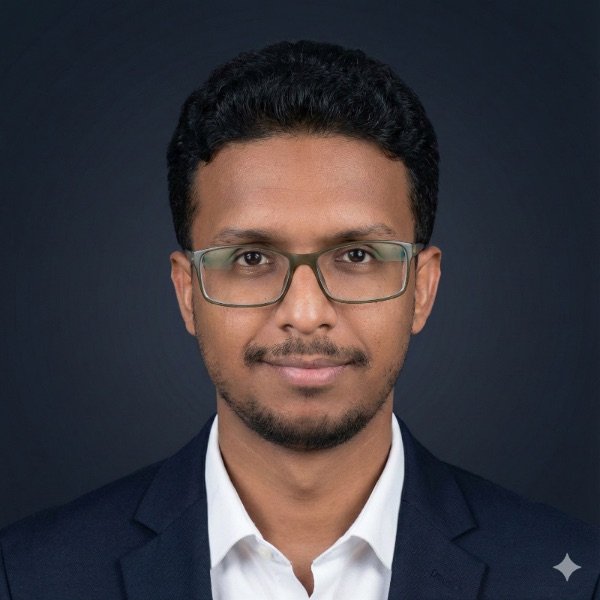
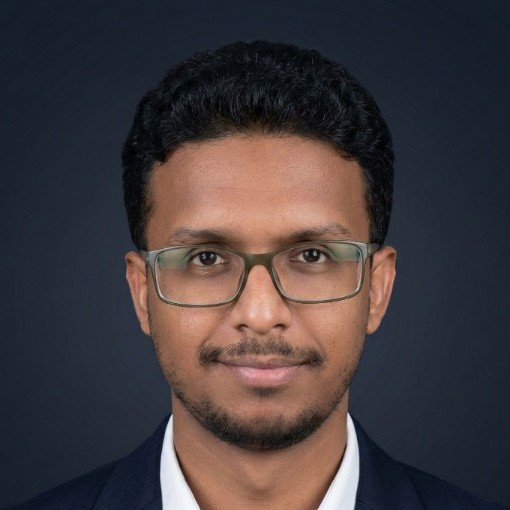
Align site with CV, fix CV quotes, crop photo watermark, update dates
- Funding: Tomorrow Leaders Undergraduate $120,000, add 2025 Departmental
  Grant ($7,000), total now "over $370,000"
- Experience: Mercy Corps and CIR 2023-2025, RA dates include 2026
- Teaching: add Fall 2026 Public Administration TA
- CV: fix closing quotes on two working papers
- Photo: crop out corner watermark
- Footer and sitemap lastmod: October 2026

Claude-Session: https://claude.ai/code/session_01TGGL3MfrcNuXE94A28KTp3

diff --git a/index.html b/index.html
@@ -1010,6 +1010,11 @@
         <div class="left">University of Western Ontario · Department of Political Science.</div>
         <div class="timeline">
           <div class="tl-row">
+            <span class="tl-year">Fall 2026</span>
+            <div class="tl-role">Public Administration <span class="org">— TA, Dr. Joseph Lyons</span></div>
+            <span class="tl-tag">Undergraduate</span>
+          </div>
+          <div class="tl-row">
             <span class="tl-year">Winter 2026</span>
             <div class="tl-role">Foundations of International Relations <span class="org">— TA, Dr. Adam Harmes</span></div>
             <span class="tl-tag">Undergraduate</span>
@@ -1052,7 +1057,7 @@
         <h2 class="serif">Grants, scholarships, and awards supporting research and graduate study.</h2>
       </div>
       <div class="block-body">
-        <div class="left">Selected funding to date — over $440,000 across grants, fellowships, and travel awards.</div>
+        <div class="left">Selected funding to date — over $370,000 across grants, fellowships, and travel awards.</div>
         <div>
           <div class="micro" style="margin-bottom:14px;">Grants &amp; Fellowships</div>
           <div class="timeline">
@@ -1069,7 +1074,7 @@
             <div class="tl-row fund">
               <span class="tl-year">2015 — 2019</span>
               <div class="tl-role">Tomorrow Leaders Undergraduate Scholarship <span class="org">— MEPI</span></div>
-              <span class="tl-tag amount">$200,000</span>
+              <span class="tl-tag amount">$120,000</span>
             </div>
             <div class="tl-row fund">
               <span class="tl-year">2023 — 2027</span>
@@ -1099,6 +1104,11 @@
               <span class="tl-year">2026</span>
               <div class="tl-role">Travel Grant <span class="org">— Western University</span></div>
               <span class="tl-tag amount">$1,000</span>
+            </div>
+            <div class="tl-row fund">
+              <span class="tl-year">2025</span>
+              <div class="tl-role">Departmental Grant <span class="org">— Western University</span></div>
+              <span class="tl-tag amount">$7,000</span>
             </div>
             <div class="tl-row fund">
               <span class="tl-year">2025</span>
@@ -1144,9 +1154,15 @@
         <div class="timeline">
 
           <div class="tl-row">
-            <span class="tl-year">2023 — 2026</span>
+            <span class="tl-year">2023 — 2025</span>
             <div class="tl-role">Crisis Analyst <span class="org">— Mercy Corps</span></div>
             <span class="tl-tag">Humanitarian</span>
+          </div>
+
+          <div class="tl-row">
+            <span class="tl-year">2023 — 2025</span>
+            <div class="tl-role">Yemen Researcher <span class="org">— Center for Information Resilience</span></div>
+            <span class="tl-tag">Research</span>
           </div>
 
           <div class="tl-row">
@@ -1156,15 +1172,9 @@
           </div>
 
           <div class="tl-row">
-            <span class="tl-year">2023 — 2024</span>
+            <span class="tl-year">2023 — 24, 2026</span>
             <div class="tl-role">Research Assistant <span class="org">— Dr. Sebastian Vallejo Vera, Western</span></div>
             <span class="tl-tag">Academic</span>
-          </div>
-
-          <div class="tl-row">
-            <span class="tl-year">2023</span>
-            <div class="tl-role">Yemen Researcher <span class="org">— Center for Information Resilience</span></div>
-            <span class="tl-tag">Research</span>
           </div>
 
           <div class="tl-row">
@@ -1293,7 +1303,7 @@
 <footer>
   <div class="wrap foot-inner">
     <span>© 2026 Hayl Al-Salehi · Department of Political Science, Western University</span>
-    <span>Updated July 2026</span>
+    <span>Updated October 2026</span>
   </div>
 </footer>
 
